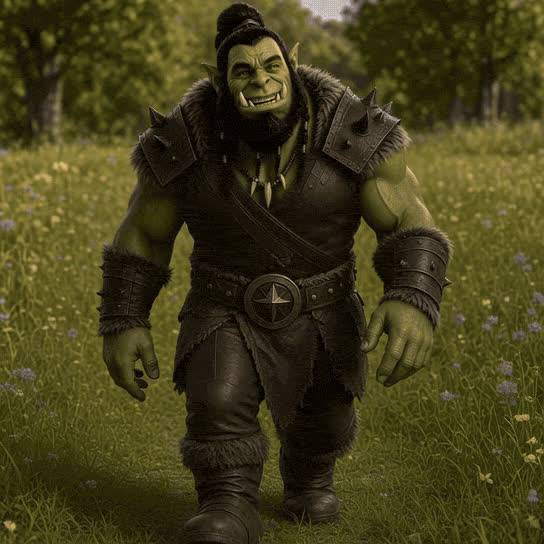
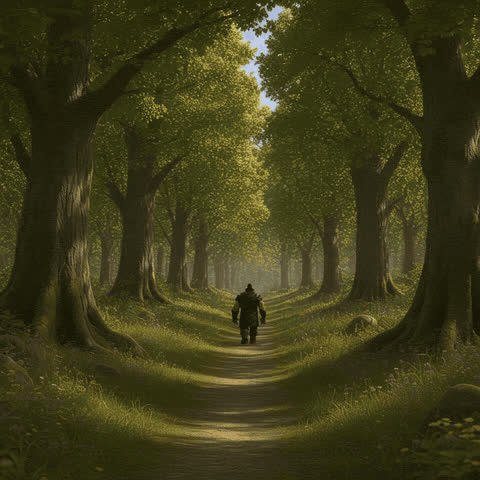
Reshoot Touch grass as a distant forest walk.
He stays small on the path and walks farther into the trees.

diff --git a/scripts/imagine-video.ts b/scripts/imagine-video.ts
@@ -31,6 +31,7 @@ const DURATIONS: Record<string, number> = {
   fishing: 6,
   "something-good": 6,
   "start-camera": 6,
+  "touch-grass": 6,
   wink: 8,
 };
 const POLL_MS = 5000;
@@ -143,7 +144,7 @@ const PROMPTS: Record<string, string> = {
   toldyou:
     "The orc smirks I-told-you-so, a smug little nod and knowing glance. Locked camera.",
   "touch-grass":
-    "The orc walks a few relaxed steps through the meadow toward the camera, enjoying the day. Then he crouches and touches the grass with one hand, a content smile. Not lying down. Locked camera.",
+    "Wide locked shot of the forest. He stays small in the distance and walks farther down the path, away from the camera. The trees stay large. The camera does not zoom in or move closer.",
   velocity:
     "The orc sprints toward the glowing gateway, pumping his arms, dust kicking up, high velocity. Keep the goal ahead in frame. Locked camera, no zoom.",
   victory:
